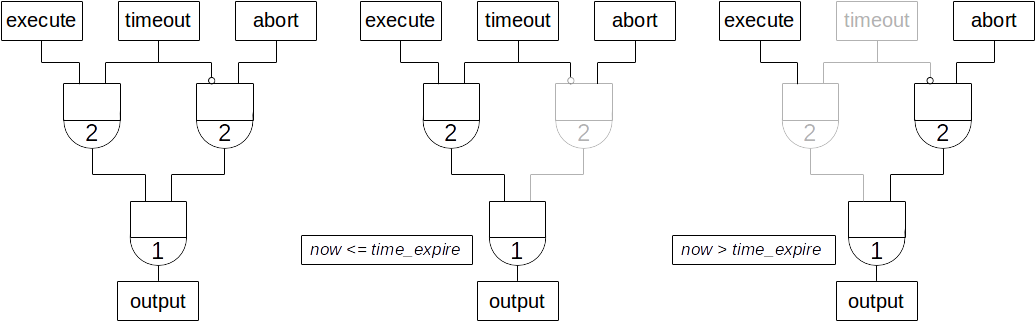
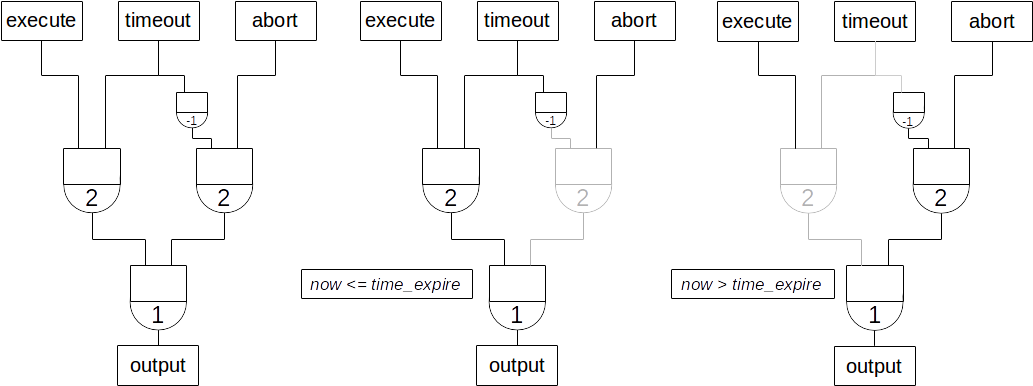
escrow doc update

diff --git a/bigchaindb/tests/doc/run_doc_python_server_api_examples.py b/bigchaindb/tests/doc/run_doc_python_server_api_examples.py
@@ -119,7 +119,7 @@ tx_multisig_transfer_signed = b.sign_transaction(tx_multisig_transfer, [testuser
 try:
     b.validate_transaction(tx_multisig_transfer_signed)
 except exceptions.InvalidSignature:
-    import ipdb; ipdb.set_trace()
+    # import ipdb; ipdb.set_trace()
     b.validate_transaction(tx_multisig_transfer_signed)
 b.write_transaction(tx_multisig_transfer_signed)
 
@@ -375,6 +375,8 @@ time_expire = str(float(util.timestamp()) + time_sleep)
 # Create escrow and timeout condition
 condition_escrow = cc.ThresholdSha256Fulfillment(threshold=1)  # OR Gate
 condition_timeout = cc.TimeoutFulfillment(expire_time=time_expire)  # only valid if now() <= time_expire
+condition_timeout_inverted = cc.InvertedThresholdSha256Fulfillment(threshold=1)
+condition_timeout_inverted.add_subfulfillment(condition_timeout)
 
 # Create execute branch
 condition_execute = cc.ThresholdSha256Fulfillment(threshold=2)  # AND gate
@@ -385,7 +387,7 @@ condition_escrow.add_subfulfillment(condition_execute)
 # Create abort branch
 condition_abort = cc.ThresholdSha256Fulfillment(threshold=2)  # AND gate
 condition_abort.add_subfulfillment(cc.Ed25519Fulfillment(public_key=testuser2_pub))  # abort address
-condition_abort.add_subfulfillment(condition_timeout, weight=-1)  # the negative weight inverts the condition
+condition_abort.add_subfulfillment(condition_timeout_inverted)
 condition_escrow.add_subfulfillment(condition_abort)
 
 # Update the condition in the newly created transaction
@@ -421,6 +423,7 @@ escrow_fulfillment = cc.Fulfillment.from_json(
 subfulfillment_testuser1 = escrow_fulfillment.get_subcondition_from_vk(testuser1_pub)[0]
 subfulfillment_testuser2 = escrow_fulfillment.get_subcondition_from_vk(testuser2_pub)[0]
 subfulfillment_timeout = escrow_fulfillment.subconditions[0]['body'].subconditions[1]['body']
+subfulfillment_timeout_inverted = escrow_fulfillment.subconditions[1]['body'].subconditions[1]['body']
 
 # Get the fulfillment message to sign
 tx_escrow_execute_fulfillment_message = \
@@ -440,7 +443,7 @@ escrow_fulfillment.add_subfulfillment(fulfillment_execute)
 # do not fulfill abort branch
 condition_abort = cc.ThresholdSha256Fulfillment(threshold=2)
 condition_abort.add_subfulfillment(subfulfillment_testuser2)
-condition_abort.add_subfulfillment(subfulfillment_timeout, weight=-1)
+condition_abort.add_subfulfillment(subfulfillment_timeout_inverted)
 escrow_fulfillment.add_subcondition(condition_abort.condition)
 
 # create fulfillment and append to transaction
@@ -456,6 +459,7 @@ escrow_fulfillment = cc.Fulfillment.from_json(
 subfulfillment_testuser1 = escrow_fulfillment.get_subcondition_from_vk(testuser1_pub)[0]
 subfulfillment_testuser2 = escrow_fulfillment.get_subcondition_from_vk(testuser2_pub)[0]
 subfulfillment_timeout = escrow_fulfillment.subconditions[0]['body'].subconditions[1]['body']
+subfulfillment_timeout_inverted = escrow_fulfillment.subconditions[1]['body'].subconditions[1]['body']
 
 tx_escrow_abort_fulfillment_message = \
     util.get_fulfillment_message(tx_escrow_abort,
@@ -473,7 +477,7 @@ escrow_fulfillment.add_subcondition(condition_execute.condition)
 fulfillment_abort = cc.ThresholdSha256Fulfillment(threshold=2)
 subfulfillment_testuser2.sign(tx_escrow_abort_fulfillment_message, crypto.SigningKey(testuser2_priv))
 fulfillment_abort.add_subfulfillment(subfulfillment_testuser2)
-fulfillment_abort.add_subfulfillment(subfulfillment_timeout, weight=-1)
+fulfillment_abort.add_subfulfillment(subfulfillment_timeout_inverted)
 escrow_fulfillment.add_subfulfillment(fulfillment_abort)
 
 tx_escrow_abort['transaction']['fulfillments'][0]['fulfillment'] = escrow_fulfillment.serialize_uri()

diff --git a/bigchaindb/docs/source/python-server-api-examples.md b/bigchaindb/docs/source/python-server-api-examples.md
@@ -1037,15 +1037,14 @@ The above switch can be implemented as follows using threshold cryptoconditions:
   <img width="100%" height="100%" src ="./_static/cc_escrow_execute_abort.png" />
 </p>
 
-The small circle (&#9898;) at an input of a threshold condition denotes an inversion of the fulfillment:
+The inverted timeout is denoted by a -1 threshold, which negates the output of the fulfillment.
 
 ```python
 inverted_fulfillment.validate(msg) == not fulfillment.validate(msg)
 ```
 
-An inverted input to a threshold condition is simply obtained by negative weights.
-
-__Note__: negative weights are BigchainDB-specific and not (yet) supported by the ILP standard.
+__Note__: inverted thresholds are BigchainDB-specific and not supported by the ILP standard.
+The main reason is that it's difficult to tell whether the fulfillment was negated, or just omitted.
 
 
 The following code snippet shows how to create an escrow condition:
@@ -1064,6 +1063,8 @@ time_expire = str(float(util.timestamp()) + time_sleep)  # 12 secs from now
 # Create the escrow and timeout condition
 condition_escrow = cc.ThresholdSha256Fulfillment(threshold=1)  # OR Gate
 condition_timeout = cc.TimeoutFulfillment(expire_time=time_expire)  # only valid if now() <= time_expire
+condition_timeout_inverted = cc.InvertedThresholdSha256Fulfillment(threshold=1)
+condition_timeout_inverted.add_subfulfillment(condition_timeout)  # invert the timeout condition
 
 # Create the execute branch
 condition_execute = cc.ThresholdSha256Fulfillment(threshold=2)  # AND gate
@@ -1074,7 +1075,7 @@ condition_escrow.add_subfulfillment(condition_execute)
 # Create the abort branch
 condition_abort = cc.ThresholdSha256Fulfillment(threshold=2)  # AND gate
 condition_abort.add_subfulfillment(cc.Ed25519Fulfillment(public_key=testuser2_pub))  # abort address
-condition_abort.add_subfulfillment(condition_timeout, weight=-1)  # the negative weight inverts the condition
+condition_abort.add_subfulfillment(condition_timeout_inverted)  
 condition_escrow.add_subfulfillment(condition_abort)
 
 # Update the condition in the newly created transaction
@@ -1144,10 +1145,19 @@ tx_escrow_signed
                                     },
                                     {
                                         "bitmask":9,
-                                        "expire_time":"1464242352.227917",
+                                        "subfulfillments":[
+                                            {
+                                                "bitmask":9,
+                                                "expire_time":"1464242352.227917",
+                                                "type":"fulfillment",
+                                                "type_id":99,
+                                                "weight":1
+                                            }
+                                        ],
+                                        "threshold":1,
                                         "type":"fulfillment",
-                                        "type_id":99,
-                                        "weight":-1
+                                        "type_id":98,
+                                        "weight":1
                                     }
                                 ],
                                 "threshold":2,
@@ -1207,6 +1217,7 @@ escrow_fulfillment = cc.Fulfillment.from_json(
 subfulfillment_testuser1 = escrow_fulfillment.get_subcondition_from_vk(testuser1_pub)[0]
 subfulfillment_testuser2 = escrow_fulfillment.get_subcondition_from_vk(testuser2_pub)[0]
 subfulfillment_timeout = escrow_fulfillment.subconditions[0]['body'].subconditions[1]['body']
+subfulfillment_timeout_inverted = escrow_fulfillment.subconditions[1]['body'].subconditions[1]['body']
 
 # Get the fulfillment message to sign
 tx_escrow_execute_fulfillment_message = \
@@ -1227,7 +1238,7 @@ escrow_fulfillment.add_subfulfillment(fulfillment_execute)
 # Do not fulfill the abort branch
 condition_abort = cc.ThresholdSha256Fulfillment(threshold=2)
 condition_abort.add_subfulfillment(subfulfillment_testuser2)
-condition_abort.add_subfulfillment(subfulfillment_timeout, weight=-1)
+condition_abort.add_subfulfillment(subfulfillment_timeout_inverted)
 escrow_fulfillment.add_subcondition(condition_abort.condition)  # Adding only the condition here
 
 # Update the execute transaction with the fulfillment
@@ -1247,6 +1258,7 @@ escrow_fulfillment = cc.Fulfillment.from_json(
 subfulfillment_testuser1 = escrow_fulfillment.get_subcondition_from_vk(testuser1_pub)[0]
 subfulfillment_testuser2 = escrow_fulfillment.get_subcondition_from_vk(testuser2_pub)[0]
 subfulfillment_timeout = escrow_fulfillment.subconditions[0]['body'].subconditions[1]['body']
+subfulfillment_timeout_inverted = escrow_fulfillment.subconditions[1]['body'].subconditions[1]['body']
 
 # Get the fulfillment message to sign
 tx_escrow_abort_fulfillment_message = \
@@ -1267,7 +1279,7 @@ escrow_fulfillment.add_subcondition(condition_execute.condition) # Adding only t
 fulfillment_abort = cc.ThresholdSha256Fulfillment(threshold=2)
 subfulfillment_testuser2.sign(tx_escrow_abort_fulfillment_message, crypto.SigningKey(testuser2_priv))
 fulfillment_abort.add_subfulfillment(subfulfillment_testuser2)
-fulfillment_abort.add_subfulfillment(subfulfillment_timeout, weight=-1)
+fulfillment_abort.add_subfulfillment(subfulfillment_timeout_inverted)
 escrow_fulfillment.add_subfulfillment(fulfillment_abort)
 
 # Update the abort transaction with the fulfillment
